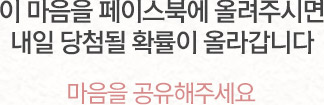
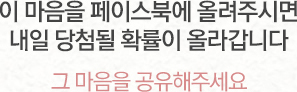
페이지 수

diff --git a/PC/product_view.html b/PC/product_view.html
@@ -21,16 +21,18 @@
 
 
 	<div class="header">
-    	<div class="logo g_960"><a href="#">logo</a></div>
+    	<div class="logo g_960"><a href="#"><img src="images/logo.png" width="76" height="21" alt=""/></a></div>
         <div class="title"><a href="#"><img src="images/title.png" width="326" height="100" alt=""/></a></div>
-        <div class="navi g_960">
-        	<ul class="clearfix">
-            	<li><a href="#">MALL</a></li>
-                <li><img src="images/navi_bar.png" width="1" height="16" alt=""/></li>
-                <li><a href="#">MOVIE</a></li>
-                <li><img src="images/navi_bar.png" width="1" height="16" alt=""/></li>
-                <li><a href="#">FAQ</a></li>
-            </ul>
+        <div class="navi">
+			<div class="inner g_960">
+            	<ul class="clearfix">
+                    <li><a href="#"><img src="images/btn_mall_02.png" width="47" height="20" alt=""/></a></li>
+                    <li><img src="images/navi_bar.png" width="1" height="16" alt=""/></li>
+                    <li><a href="#"><img src="images/btn_movie.png" width="51" height="16" alt=""/></a></li>
+                    <li><img src="images/navi_bar.png" width="1" height="16" alt=""/></li>
+                     <li><a href="#"><img src="images/btn_faq.png" width="33" height="16" alt=""/></a></li>
+				</ul>
+        	</div>
         </div>
     </div>
     
@@ -38,8 +40,6 @@
     
 	<div class="content g_960">
        <div class="product_img">
-       		<!--품절시-->
-         <div class="t_soldout"><img src="images/txt_soldout.png" alt=""/></div>
    	   	 <div class="img"><img src="images/big_product_1.jpg" alt="" border="0"/></div>
        </div>
        <div class="product_detail">

diff --git a/PC/product_view_out.html b/PC/product_view_out.html
@@ -26,7 +26,7 @@
         <div class="navi">
 			<div class="inner g_960">
             	<ul class="clearfix">
-                    <li><a href="#"><img src="images/btn_mall_02.png" width="47" height="16" alt=""/></a></li>
+                    <li><a href="#"><img src="images/btn_mall_02.png" width="47" height="20" alt=""/></a></li>
                     <li><img src="images/navi_bar.png" width="1" height="16" alt=""/></li>
                     <li><a href="#"><img src="images/btn_movie.png" width="51" height="16" alt=""/></a></li>
                     <li><img src="images/navi_bar.png" width="1" height="16" alt=""/></li>

diff --git a/PC/faq.html b/PC/faq.html
@@ -28,7 +28,7 @@
                     <li><img src="images/navi_bar.png" width="1" height="16" alt=""/></li>
                     <li><a href="#"><img src="images/btn_movie.png" width="51" height="16" alt=""/></a></li>
                     <li><img src="images/navi_bar.png" width="1" height="16" alt=""/></li>
-                     <li><a href="#"><img src="images/btn_faq_02.png" width="33" height="16" alt=""/></a></li>
+                     <li><a href="#"><img src="images/btn_faq_02.png" width="33" height="20" alt=""/></a></li>
 				</ul>
         	</div>
         </div>

diff --git a/PC/popup_fail.html b/PC/popup_fail.html
@@ -30,7 +30,7 @@
            	   		<img src="images/fail_product_1.jpg" alt=""/>
                </div>
                <div class="share_txt">
-       		   		<img src="images/txt_share.jpg" width="324" height="105" alt=""/>
+       		   		<img src="images/txt_share.jpg" width="297" height="92" alt=""/>
                </div>
                <div class="btn_share_block clearfix">
                		<div class="fb"><a href="#"><img src="images/btn_fb.jpg" alt=""/></a></div>

diff --git a/PC/css/style.css b/PC/css/style.css
@@ -335,9 +335,10 @@ body{
 }
 .wrap_pop .content .share_txt{
 	text-align:center;
+	padding-top:20px
 }
 .wrap_pop .content .btn_share_block{
-	padding-top:20px;
+	padding-top:10px;
 }
 .wrap_pop .content .btn_share_block div{
 	float:left;
